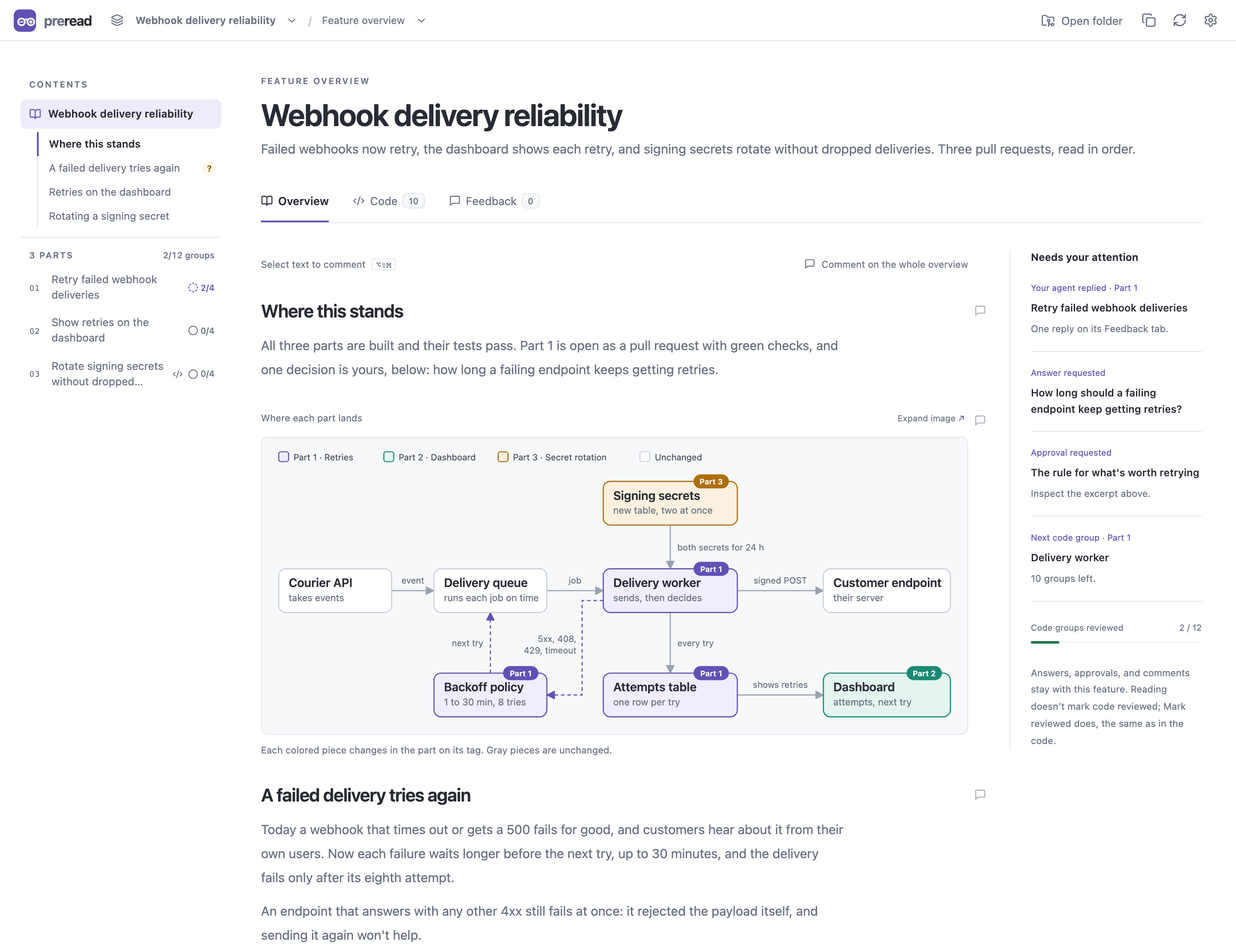
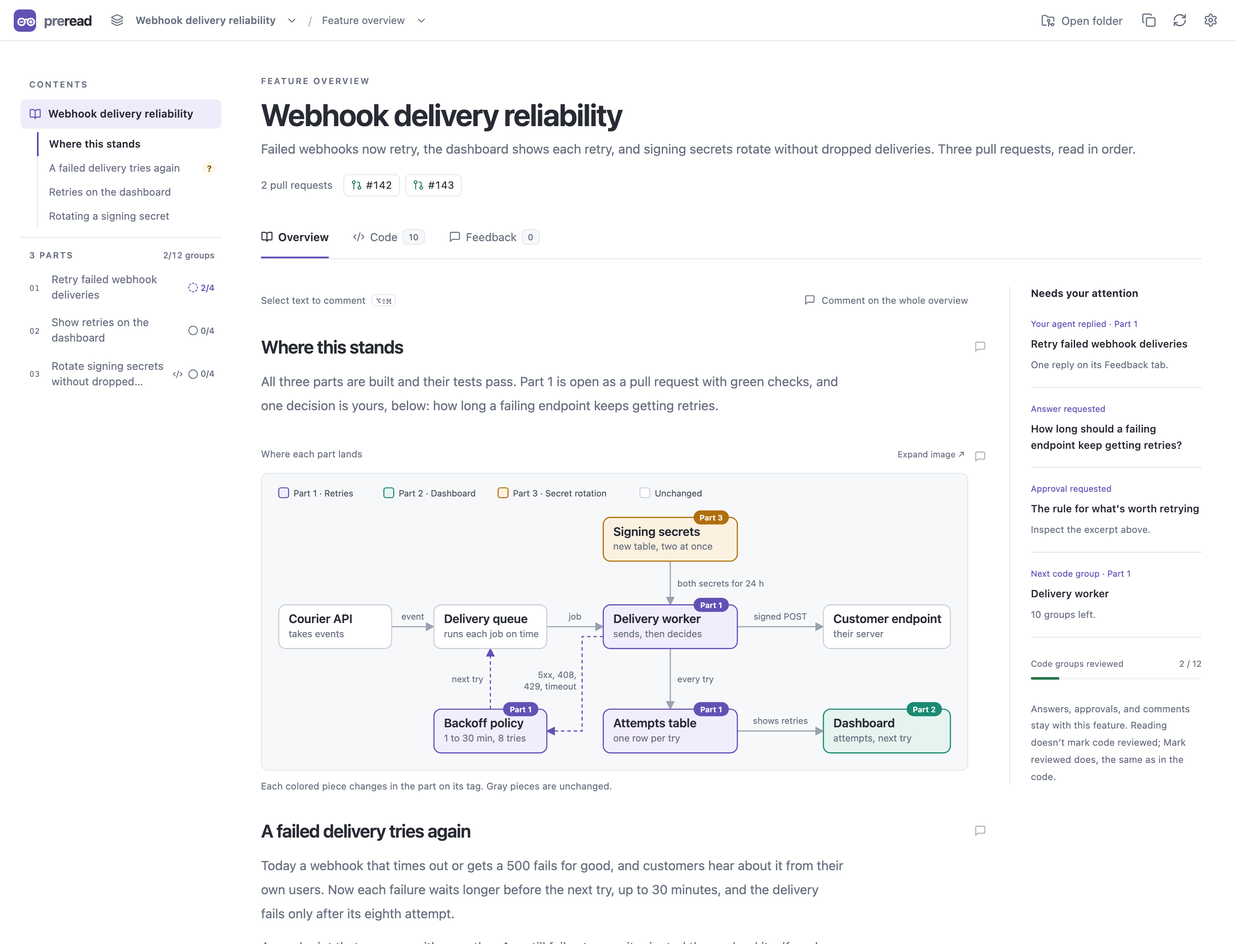
Show PR status on part and feature overviews
A part's PR card showed only in its Code view, so a part overview had
no link to its pull request and briefs wrote their PR numbers and
links by hand. The card now sits under the description on every tab:
Overview, Code and Feedback.

The feature overview lists every part's PR under its description, one
chip each in part order. A chip shows the PR number and an icon for
open, draft, merged or closed, and an open PR with failing checks or
requested changes says so; hovering shows the part, the PR title and
its checks. The chips read the statuses the review picker already
loads, so they add no GitHub calls. The brief guide now tells authors
a brief doesn't need its own list of PR links.

diff --git a/src/App.tsx b/src/App.tsx
@@ -71,7 +71,7 @@ import { onScreen, reached, useScrollPlace } from "./scroll-place";
 import { noContentNote, pathDiff, reviewable, type PathPart } from "./change-notes";
 import { useCollectionProgress } from "./useCollectionProgress";
 import { codeGroups, collectionProgress, markedFile, progressLabel, progressSource, unviewedGroups, withFileViews } from "./progress";
-import { PullRequest, PullRequestLine } from "./PullRequest";
+import { PullRequest, PullRequestChips, PullRequestLine } from "./PullRequest";
 import { LineCounts } from "./LineCounts";
 import { ImageDiff } from "./ImageDiff";
 import { BrandMark } from "./BrandMark";
@@ -2164,9 +2164,11 @@ export default function App() {
       onFeature={() => { shut(); showCollection(); }}
       onReview={(id) => { shut(); if (id === review.id) window.scrollTo(0, 0); else openReviewEntry(id); }} />;
   };
+  const pullRequestCard = review?.pullRequest && <PullRequest url={review.pullRequest} entry={pullRequests[review.pullRequest]}
+    comparison={comparison} mode={review.mode} onRefresh={() => refreshPullRequest(review.id)} />;
   const codeFrame = framed && collection && review && (
     <ReviewFrame className="code-frame" eyebrow={`Part ${partIndex + 1} of ${collection.reviews.length}`} title={review.title}
-      summary={review.description && <Description key={`description:${collectionId}/${reviewId}`} className="feature-brief-summary" text={review.description} />}
+      summary={<>{review.description && <Description key={`description:${collectionId}/${reviewId}`} className="feature-brief-summary" text={review.description} />}{pullRequestCard}</>}
       tabs={review.brief && <BriefTabs label="Part views" current="code"
         feedback={reviewFeedback ? openThreads(reviewFeedback) : "…"} replies={reviewFeedback?.person}
         code={itemProgress[review.id] ? codeGroups([review], progressSources).remaining.length : "…"}
@@ -2192,8 +2194,6 @@ export default function App() {
         {!collection.brief && markReviewButton}
         {!collection.brief && <MarkErrors messages={markErrors} />}
         <ReviewVisuals key={`visuals:${collectionId}/${reviewId}`} collection={collectionId} review={reviewId} visuals={review.visuals} />
-        {review.pullRequest && <PullRequest url={review.pullRequest} entry={pullRequests[review.pullRequest]} comparison={comparison}
-          mode={review.mode} onRefresh={() => refreshPullRequest(review.id)} />}
       </div>
       {notices}
       {loading}
@@ -2421,15 +2421,7 @@ export default function App() {
             )}
             {review && <ReviewVisuals key={`visuals:${collectionId}/${reviewId}`}
               collection={collectionId} review={reviewId} visuals={review.visuals} />}
-            {review?.pullRequest && (
-              <PullRequest
-                url={review.pullRequest}
-                entry={pullRequests[review.pullRequest]}
-                comparison={comparison}
-                mode={review.mode}
-                onRefresh={() => refreshPullRequest(review.id)}
-              />
-            )}
+            {pullRequestCard}
             {repo && (
               <div className="review-bar">
                 <nav className="review-tabs" aria-label="Review sections">
@@ -2492,10 +2484,10 @@ export default function App() {
           </div>
         )}
         {tab === "collection" && collection?.brief && <FeatureBrief key={collection.id} collection={collection} brief={collectionBrief}
-          progress={itemProgress} sources={progressSources} marking={marking} initialView={briefView} initialBlock={featureJump} onJumped={() => setFeatureJump("")}
+          pullRequests={<PullRequestChips reviews={collection.reviews} entries={pullRequests} />} progress={itemProgress} sources={progressSources} marking={marking} initialView={briefView} initialBlock={featureJump} onJumped={() => setFeatureJump("")}
           onCode={openCodeReference} onReview={openReviewEntry} onFeature={showCollection} onMark={markFromBrief} />}
         {tab === "brief" && collection && review?.brief && <FeatureBrief key={`${collection.id}/${review.id}`} collection={collection} review={review}
-          brief={reviewBrief} progress={itemProgress} sources={progressSources} marking={marking} initialView={briefView} initialBlock={briefJump}
+          brief={reviewBrief} pullRequests={pullRequestCard} progress={itemProgress} sources={progressSources} marking={marking} initialView={briefView} initialBlock={briefJump}
           initialFeedback={replyJump ? "person" : undefined} onJumped={() => { setBriefJump(""); setReplyJump(false); }} onCode={openCodeReference} onReview={openReviewEntry} onFeature={showCollection} onMark={markFromBrief}
           onCodeTab={() => { setTab("changes"); window.scrollTo(0, 0); }} codeComments={codeComments} />}
         {tab === "collection" && collection && !collection.brief && (

diff --git a/tests/pullRequests.test.ts b/tests/pullRequests.test.ts
@@ -1,5 +1,8 @@
 import { test } from "node:test";
 import assert from "node:assert/strict";
+import { createElement } from "react";
+import { renderToStaticMarkup } from "react-dom/server";
+import { PullRequestChips } from "../src/PullRequest.tsx";
 import {
   parsePullRequest,
   comparisonMatch,
@@ -9,6 +12,7 @@ import {
 import { createPullRequestReader, normalizeStatus } from "../server/pullRequests.ts";
 import { validateCollection } from "../server/collections.ts";
 import type { Comparison } from "../src/types.ts";
+import type { Review } from "../src/review-types.ts";
 
 const raw = {
   number: 42,
@@ -144,4 +148,36 @@ test("matching commit labels never claim a working or differently based diff mat
   assert.match(comparisonMatch({ ...comparison, head: "other" }, "branch", status), /head differ/);
   for (const mode of ["working", "staged", "all"] as const)
     assert.match(comparisonMatch(comparison, mode, status), /different scope/);
+});
+test("the feature overview lists each part's PR in part order and names only what keeps it from merging", () => {
+  const link = (number: number) => `https://github.com/owner/repo/pull/${number}`;
+  const part = (id: string, pullRequest?: string): Review =>
+    ({ id, title: `Part ${id}`, description: "", path: "/tmp/repo", base: "main", mode: "branch", groups: [], pullRequest });
+  const status = (rollup: { conclusion: string }[], changes: { state?: "MERGED"; reviewDecision?: string } = {}) =>
+    ({ loading: false, result: { url, status: normalizeStatus({ ...raw, statusCheckRollup: rollup, ...changes }, "today") } });
+  const passed = [{ conclusion: "SUCCESS" }];
+  const failing = [{ conclusion: "FAILURE" }, { conclusion: "FAILURE" }, { conclusion: "SUCCESS" }];
+  const html = renderToStaticMarkup(createElement(PullRequestChips, {
+    reviews: [part("a", link(11)), part("b"), part("c", link(12)), part("d", link(13)), part("e", link(14)), part("f", link(15))],
+    entries: {
+      [link(11)]: status(passed),
+      [link(12)]: status(failing, { reviewDecision: "CHANGES_REQUESTED" }),
+      [link(13)]: status(passed, { reviewDecision: "CHANGES_REQUESTED" }),
+      [link(14)]: status(failing, { state: "MERGED" }),
+    },
+  }));
+  const chips = [...html.matchAll(/<a class="pr-chip"[^>]*aria-label="([^"]*)"[^>]*>(.*?)<\/a>/g)];
+  assert.match(html, /5 pull requests/);
+  assert.deepEqual(chips.map(([, label]) => label), [
+    "Part 1, Part a: PR #11, Open, 1 check passed",
+    "Part 3, Part c: PR #12, Open, 2 failing, Changes requested",
+    "Part 4, Part d: PR #13, Open, 1 check passed, Changes requested",
+    "Part 5, Part e: PR #14, Merged",
+    "Part 6, Part f: PR #15, Checking GitHub…",
+  ]);
+  assert.deepEqual(chips.map(([, , body]) => /pr-(open|draft|merged|closed|checking)/.exec(body)?.[1]),
+    ["open", "open", "open", "merged", "checking"]);
+  assert.deepEqual(chips.map(([, , body]) => /pr-chip-blocker">([^<]*)</.exec(body)?.[1] ?? ""),
+    ["", "2 failing", "Changes requested", "", ""]);
+  assert.equal(renderToStaticMarkup(createElement(PullRequestChips, { reviews: [part("a")], entries: {} })), "");
 });

diff --git a/src/PullRequest.tsx b/src/PullRequest.tsx
@@ -1,5 +1,6 @@
-import { ExternalLink, GitPullRequest, RefreshCw } from "lucide-react";
+import { ExternalLink, GitMerge, GitPullRequest, GitPullRequestClosed, GitPullRequestDraft, RefreshCw } from "lucide-react";
 import type { Comparison, Mode } from "./types";
+import type { Review } from "./review-types";
 import type { PullRequestEntry } from "./usePullRequests";
 import {
   checksLabel,
@@ -30,6 +31,44 @@ export function PullRequestLine({ url, entry }: { url: string; entry?: PullReque
         {facts.map((fact) => ` · ${fact}`)}
       </span>
     </span>
+  );
+}
+
+const stateIcons = { Open: GitPullRequest, Draft: GitPullRequestDraft, Merged: GitMerge, Closed: GitPullRequestClosed };
+
+// A stack can hold dozens of parts, so a chip spells out only what keeps its PR from merging.
+export function PullRequestChips({ reviews, entries }: { reviews: Review[]; entries: Record<string, PullRequestEntry> }) {
+  const linked = reviews.flatMap((review, index) => review.pullRequest ? [{ review, part: index + 1, url: review.pullRequest }] : []);
+  if (!linked.length) return null;
+  return (
+    <div className="pr-chips">
+      <span className="pr-chips-label">{linked.length === 1 ? "Pull request" : `${linked.length} pull requests`}</span>
+      <ul>
+        {linked.map(({ review, part, url }) => {
+          const result = entries[url]?.result;
+          const status = result?.status;
+          const state = status ? pullRequestState(status) : undefined;
+          const Icon = state ? stateIcons[state] : GitPullRequest;
+          const number = parsePullRequest(url).number;
+          const blocker = status?.state === "OPEN"
+            ? status.checks.failed ? `${status.checks.failed} failing` : status.reviewDecision === "CHANGES_REQUESTED" ? "Changes requested" : ""
+            : "";
+          const facts = status
+            ? [state, ...pullRequestFacts(status), ...(result?.error ? ["Last known status"] : [])]
+            : [result?.error ? "Status unavailable" : "Checking GitHub…"];
+          return (
+            <li key={review.id}>
+              <a className="pr-chip" href={url} target="_blank" rel="noreferrer"
+                aria-label={`Part ${part}, ${review.title}: PR #${number}, ${facts.join(", ")}`}
+                title={[`Part ${part} · ${review.title}`, `PR #${number}${status ? ` · ${status.title}` : ""}`, facts.join(" · ")].join("\n")}>
+                <Icon size={13} className={`pr-${state?.toLowerCase() ?? "checking"}`} aria-hidden="true" />#{number}
+                {blocker && <span className="pr-chip-blocker">{blocker}</span>}
+              </a>
+            </li>
+          );
+        })}
+      </ul>
+    </div>
   );
 }
 

diff --git a/src/FeatureBrief.tsx b/src/FeatureBrief.tsx
@@ -1,4 +1,4 @@
-import React, { useEffect, useLayoutEffect, useMemo, useRef, useState } from "react";
+import React, { useEffect, useLayoutEffect, useMemo, useRef, useState, type ReactNode } from "react";
 import { createPortal } from "react-dom";
 import { ArrowLeft, ArrowRight, Check, CheckCheck, LoaderCircle, MessageSquare, X } from "lucide-react";
 import type { Collection, ProgressSource, Review, ReviewProgress } from "./review-types";
@@ -52,8 +52,8 @@ const emptyStructure: BriefStructure = { outline: [], sections: [], headings: ne
 const headingElement = (heading: OutlineHeading) => document.getElementById(`brief-block-${heading.block}`)
   ?.querySelectorAll<HTMLElement>("[data-brief-text] > .markdown > :is(h1,h2,h3)")[heading.index];
 
-export function FeatureBrief({ collection, review, brief, progress, sources, marking, initialView = "brief", initialBlock, initialFeedback, onJumped, onCode, onReview, onFeature, onCodeTab, onMark, codeComments }: {
-  collection: Collection; review?: Review; brief: BriefState; progress: Record<string, ReviewProgress>; sources: Record<string, ProgressSource>;
+export function FeatureBrief({ collection, review, brief, pullRequests, progress, sources, marking, initialView = "brief", initialBlock, initialFeedback, onJumped, onCode, onReview, onFeature, onCodeTab, onMark, codeComments }: {
+  collection: Collection; review?: Review; brief: BriefState; pullRequests?: ReactNode; progress: Record<string, ReviewProgress>; sources: Record<string, ProgressSource>;
   marking: string; initialView?: View; initialBlock?: string; initialFeedback?: ThreadTurn; onJumped?: () => void; onCode: (reference: CodeJump, view: View) => void;
   onReview: (review: string, block?: string, open?: "feedback" | "replies") => void; onFeature: () => void; onCodeTab?: () => void; onMark: MarkGroups;
   codeComments?: CodeComments;
@@ -315,7 +315,7 @@ export function FeatureBrief({ collection, review, brief, progress, sources, mar
     }
   };
   return <><ReviewFrame eyebrow={review ? `Part ${partIndex + 1} of ${collection.reviews.length}` : "Feature overview"} title={title}
-    summary={summary && <Description key={readingKey} className="feature-brief-summary" text={summary} />}
+    summary={<>{summary && <Description key={readingKey} className="feature-brief-summary" text={summary} />}{pullRequests}</>}
     tabs={<BriefTabs label={review ? "Part views" : "Feature views"} current={view} code={checking ? "…" : remaining.length}
       feedback={openThreads(own)} replies={own.person}
       onBrief={() => setView("brief")} onCode={openCodeTab} onFeedback={() => setView("feedback")} />}

diff --git a/src/style.css b/src/style.css
@@ -2444,6 +2444,65 @@ fieldset {
   flex: none;
   margin-top: 2px;
 }
+.pr-draft,
+.pr-checking {
+  color: var(--secondary);
+}
+.pr-chips {
+  display: flex;
+  align-items: flex-start;
+  gap: 6px 12px;
+  margin-top: 16px;
+  font-size: 12px;
+  color: var(--secondary);
+}
+.pr-chips-label {
+  flex: none;
+  line-height: 26px;
+}
+.pr-chips ul {
+  display: flex;
+  flex-wrap: wrap;
+  gap: 6px;
+  min-width: 0;
+  margin: 0;
+  padding: 0;
+  list-style: none;
+}
+.pr-chip {
+  display: inline-flex;
+  align-items: center;
+  gap: 5px;
+  min-height: 26px;
+  padding: 0 8px;
+  border: 1px solid var(--border);
+  border-radius: 6px;
+  color: var(--text);
+  text-decoration: none;
+  white-space: nowrap;
+  font-variant-numeric: tabular-nums;
+}
+.pr-chip:hover {
+  background: var(--hover);
+}
+.pr-chip:focus-visible {
+  outline: 2px solid var(--focus);
+  outline-offset: 2px;
+}
+.pr-chip svg {
+  flex: none;
+}
+.pr-chip-blocker {
+  color: var(--red);
+}
+@media (max-width: 720px) {
+  .pr-chips {
+    flex-direction: column;
+  }
+  .pr-chips-label {
+    line-height: inherit;
+  }
+}
 .review-card {
   padding: 0;
   overflow: hidden;

diff --git a/src/brief.css b/src/brief.css
@@ -70,6 +70,10 @@
   line-clamp:4
 }
 
+.feature-brief-heading .pull-request {
+  margin:16px 0 0
+}
+
 .brief-tabs {
   display:flex;
   gap:28px;

diff --git a/DESIGN.md b/DESIGN.md
@@ -1,6 +1,6 @@
 # Interface decisions
 
-One top bar holds the collection and review selectors, so navigation stays out of the diff’s way. In the review selector, a review linked to a pull request shows the PR’s state under its progress, plus its checks and any approval or requested changes while it’s open; opening the selector re-reads them. The PR’s link stays in the review header, because a link inside a list option can’t be reached by keyboard. Collections express a curated reading order; the separate Git ancestry tab reports actual dependencies. Each review and change group leads with a human name and an explanation in Markdown; a review description past three lines folds behind Show more, and a review’s card on its collection shows the words without the Markdown. Descriptions were plain text first, so a line break stays a line break. Text that looks like HTML shows as typed wherever Preread renders Markdown, because authors write placeholders such as `user:<id>` and none should vanish. The branch and a plain-language summary of the comparison share the tab row, and the folder, mode, and base open from that summary. Beside them, the line count covers runtime code only, so tests, evals, and lockfiles don’t inflate it; hovering or clicking it shows each kind and the total. A commit SHA base stays out of the summary because it tells the reader nothing. Diff layout, whitespace, wrapping, and theme sit behind one settings button.
+One top bar holds the collection and review selectors, so navigation stays out of the diff’s way. In the review selector, a review linked to a pull request shows the PR’s state under its progress, plus its checks and any approval or requested changes while it’s open; opening the selector re-reads them. The PR’s link stays in the review header, because a link inside a list option can’t be reached by keyboard; with overviews it sits under the description, so it stays put as the reader switches between Overview, Code and Feedback. The feature overview lists every part’s PR the same way, one chip each that names only failing checks or requested changes, so a 36-part stack still fits a few lines. Collections express a curated reading order; the separate Git ancestry tab reports actual dependencies. Each review and change group leads with a human name and an explanation in Markdown; a review description past three lines folds behind Show more, and a review’s card on its collection shows the words without the Markdown. Descriptions were plain text first, so a line break stays a line break. Text that looks like HTML shows as typed wherever Preread renders Markdown, because authors write placeholders such as `user:<id>` and none should vanish. The branch and a plain-language summary of the comparison share the tab row, and the folder, mode, and base open from that summary. Beside them, the line count covers runtime code only, so tests, evals, and lockfiles don’t inflate it; hovering or clicking it shows each kind and the total. A commit SHA base stays out of the summary because it tells the reader nothing. Diff layout, whitespace, wrapping, and theme sit behind one settings button.
 
 The file outline is an index into a continuous review, not a single-file filter. Within each group, files sit under a row for their folder; a long folder drops its leading folders rather than cutting through a name. Each file takes one line: an icon for its kind (code, test, styles, docs, config, data, SQL, script, lockfile, image, and a few more), its name, and a meter of its changed lines, green for added and red for removed, on a log scale so a one-line fix and a 500-line rewrite both read at a glance. Modified files carry no letter; new, deleted, renamed, and untracked files keep theirs, because the meter can't tell a new file from one that only gained lines. Hovering a file shows its full path, status, kind, and exact line counts, and hovering a shortened folder shows all of it. Dragging the outline's edge, or pressing arrow keys on it, widens it for long folders, up to half the window; the browser keeps that width, and a double-click or Enter restores the default. Kinds differ by shape, not color, because color already means added, deleted, or renamed. A renamed file's card title reads old path → new path, with the changed folders and name parts marked like changed words in a diff, and outline search matches old paths too. A file whose diff has no lines to show, such as a pure rename, says what changed instead of drawing an empty diff. Every changed block appears in its assigned group or Other changes. Whole-file and partial-file groups share the same review controls; partial selections include complete hunks with context and are labeled Selected blocks. A changed image shows each version that exists, stacked in unified view and side by side in split view, over a checkerboard that shows only through transparency.
 

diff --git a/docs/briefs.md b/docs/briefs.md
@@ -68,7 +68,7 @@ That command changes nothing else: not the collection, its groups, its receipts,
 
 Import checks every brief’s code references and visuals the same way, and names the review whose brief failed. A brief can link to any review or group in its collection. Markdown links are checked when the page shows them: a link to a missing review or group shows **Unavailable**.
 
-A review with a brief opens on **Overview**, with **Code** and **Feedback** tabs beside it. When the collection has any overview, a part’s code opens in the same frame: the title, tabs and **Contents** stay in place, and **Changes**, **Commits**, **Git ancestry** and **Find** sit in a toolbar above the diff. Opening a review from the picker, or from a link without a group, file, or line, starts at its brief; links to a group, file, or line open the code there. The picker marks reviews that have a brief. A review brief has every control of the collection brief, with its own feedback and an attention panel for this review’s questions and code. The collection brief’s attention panel also lists unanswered review-brief questions, labeled with the review’s title.
+A review with a brief opens on **Overview**, with **Code** and **Feedback** tabs beside it. When the collection has any overview, a part’s code opens in the same frame: the title, tabs and **Contents** stay in place, and **Changes**, **Commits**, **Git ancestry** and **Find** sit in a toolbar above the diff. A part with a `pullRequest` shows the PR’s state, checks and review decision under its description, in the same place on every tab. Opening a review from the picker, or from a link without a group, file, or line, starts at its brief; links to a group, file, or line open the code there. The picker marks reviews that have a brief. A review brief has every control of the collection brief, with its own feedback and an attention panel for this review’s questions and code. The collection brief’s attention panel also lists unanswered review-brief questions, labeled with the review’s title.
 
 ## Contents and code panels
 
@@ -78,6 +78,8 @@ Every overview has a **Contents** rail. It lists the feature overview and every 
 - Don’t repeat the title as the first heading, and don’t write a table of contents or a “Read the code” list of parts and groups. The rail and the code panels cover both.
 
 Each `##` section that links code groups, through `preread:` links or a code block’s `reference`, ends with a **Code for “<heading>”** panel. It lists each group once with its status, part, file count, and a **Tests** tag when every file is a test. **Mark reviewed** marks every file in that group Viewed, the same as **Mark all viewed** in the code, and writes the same receipt; a reviewed group’s button removes those marks. **Mark N reviewed** does that for the section’s remaining groups. A part overview ends with **Every code group in part N** and links to the previous and next parts.
+
+Under its description, the feature overview lists each part’s pull request in collection order. A PR’s icon says whether it is open, a draft, merged or closed, and a PR with failing checks or requested changes says so; hovering one shows its part, title and checks. A brief doesn’t need its own list of PR links.
 
 The feature overview’s attention panel also lists each part’s unanswered questions and unapproved excerpts, and each part where your agent replied, which opens that part’s first item waiting on you, or its first reply in the code when the part has no overview. Its **Feedback** tab lists the parts with open feedback, and **Prepare all feedback** collects what is waiting on your agent in the feature and every part in one batch.
 

diff --git a/README.md b/README.md
@@ -40,7 +40,7 @@ A pre-read is the memo you get before a meeting, so you walk in knowing what mat
 
 <picture>
   <source media="(prefers-color-scheme: dark)" srcset="docs/screenshots/overview-dark.png">
-  <img alt="The feature overview for Webhook delivery reliability. The Contents rail lists its sections and its three parts with their progress. Below a short status, an architecture diagram of the delivery pipeline colors and tags each piece by the part that changes it. A Needs your attention panel lists an agent reply, an open question, an excerpt to approve, and the next code group." src="docs/screenshots/overview-light.png">
+  <img alt="The feature overview for Webhook delivery reliability. The Contents rail lists its sections and its three parts with their progress. Under the description, the two linked pull requests are listed by number. Below a short status, an architecture diagram of the delivery pipeline colors and tags each piece by the part that changes it. A Needs your attention panel lists an agent reply, an open question, an excerpt to approve, and the next code group." src="docs/screenshots/overview-light.png">
 </picture>
 
 ## What makes it different
@@ -51,7 +51,7 @@ A pre-read is the memo you get before a meeting, so you walk in knowing what mat
 - **Comments that stay with the code.** Comment on a line, a file, or a passage of an overview, in Markdown with syntax-colored code; a comment on an overview can carry screenshots you paste or drop in. A comment on a line follows it when edits move it, and your agent's replies appear under it within a second.
 - **Re-reads show only what changed.** A Viewed mark is tied to the diff you read. When that diff changes, the mark clears, and the group reopens on just the changes since you viewed it.
 - **One reading list across worktrees.** A collection spans worktrees and repositories. Each review has its own base, so a stacked branch shows only its own layer.
-- **The pull request, once you open one.** Link a review to its GitHub pull request to see its state, checks, and review decision in the review picker, and whether your local head and base still match it.
+- **The pull request, once you open one.** Link a review to its GitHub pull request to see its state, checks, and review decision under its title and in the review picker, and whether your local head and base still match it. The feature overview lists every part's pull request.
 - **Updates on your agent's cue.** After a change, your agent runs `pnpm refresh`, and the page you have open re-reads in place and keeps your scroll position and your marks.
 - **Any stage of the work.** Branch commits, branch plus local edits, uncommitted changes, or staged changes.
 - **A diff reader built for long reads.** Unified or split view, syntax highlighting that reads the whole file, line wrapping, ignore whitespace, expandable context, and before-and-after images. The file outline shows folders, each file's kind, and a meter of its changed lines, and the line count keeps runtime code apart from tests and lockfiles. Deep in a long group, a bar at the top keeps the group's name and **Mark all viewed** in reach.

diff --git a/docs/collections.md b/docs/collections.md
@@ -67,7 +67,7 @@ Delete removes a collection from the picker and refreshes open pages. Its review
 | `base` | Any ref Git can resolve locally. `branch` and `all` compare against it. `working` and `staged` compare with HEAD and ignore it, but the field is still required, so use `""`. Preread never fetches, so make sure the ref has the commits you expect. |
 | `mode` | `branch` compares the merge base of `base` and HEAD with HEAD. `all` adds staged, unstaged, and untracked changes. `working` compares HEAD with the working tree, including untracked files. `staged` compares HEAD with the index. |
 | `scope` | Use `groups` for a curated review: include only complete hunks selected by named groups, with file counts and line totals limited to those changes. Requires at least one group. Use `comparison` (the default for existing manifests) to include the entire comparison, with unassigned changes under Other changes. |
-| `pullRequest` | Optional GitHub pull request URL. |
+| `pullRequest` | Optional GitHub pull request URL. Its state, checks and review decision show under the review's description and in the review picker, and the feature overview lists it with every other part's. |
 | `brief` | Optional, on the collection or on a review: an ordered document in the [brief format](briefs.md). Briefs are stored apart from the manifest, so an import that omits one keeps the saved brief. Write one for each review that ships as its own pull request. |
 | `targets[].path` | Exact, repository-relative file path. |
 | `targets[].ranges` | Optional. One-based diff line numbers on the `new` side, or `old` for deleted lines. A range selects every complete hunk with a changed line inside it; hunks are never split. |

diff --git a/skills/preread/SKILL.md b/skills/preread/SKILL.md
@@ -111,7 +111,7 @@ Write the manifest outside every reviewed repository, for example in a temporary
 - Target paths are exact and repository-relative. Omit `ranges` to include the whole file.
 - A range uses one-based diff line numbers on the `new` side, or `old` for deleted lines. It selects every complete hunk that has a changed line inside the range; hunks are never split.
 - Give each intended hunk to one group. With group-only scope, anything unassigned is outside the review; verify that no intended change was omitted. With comparison scope, anything unassigned appears under Other changes.
-- `pullRequest` is optional. Preread reads its status through the user's signed-in `gh` CLI.
+- `pullRequest` is optional. Preread reads its status through the user's signed-in `gh` CLI and shows it under the review's description, on its overview and in its code. The feature overview lists every part's PR.
 
 ## Write a feature brief
 
